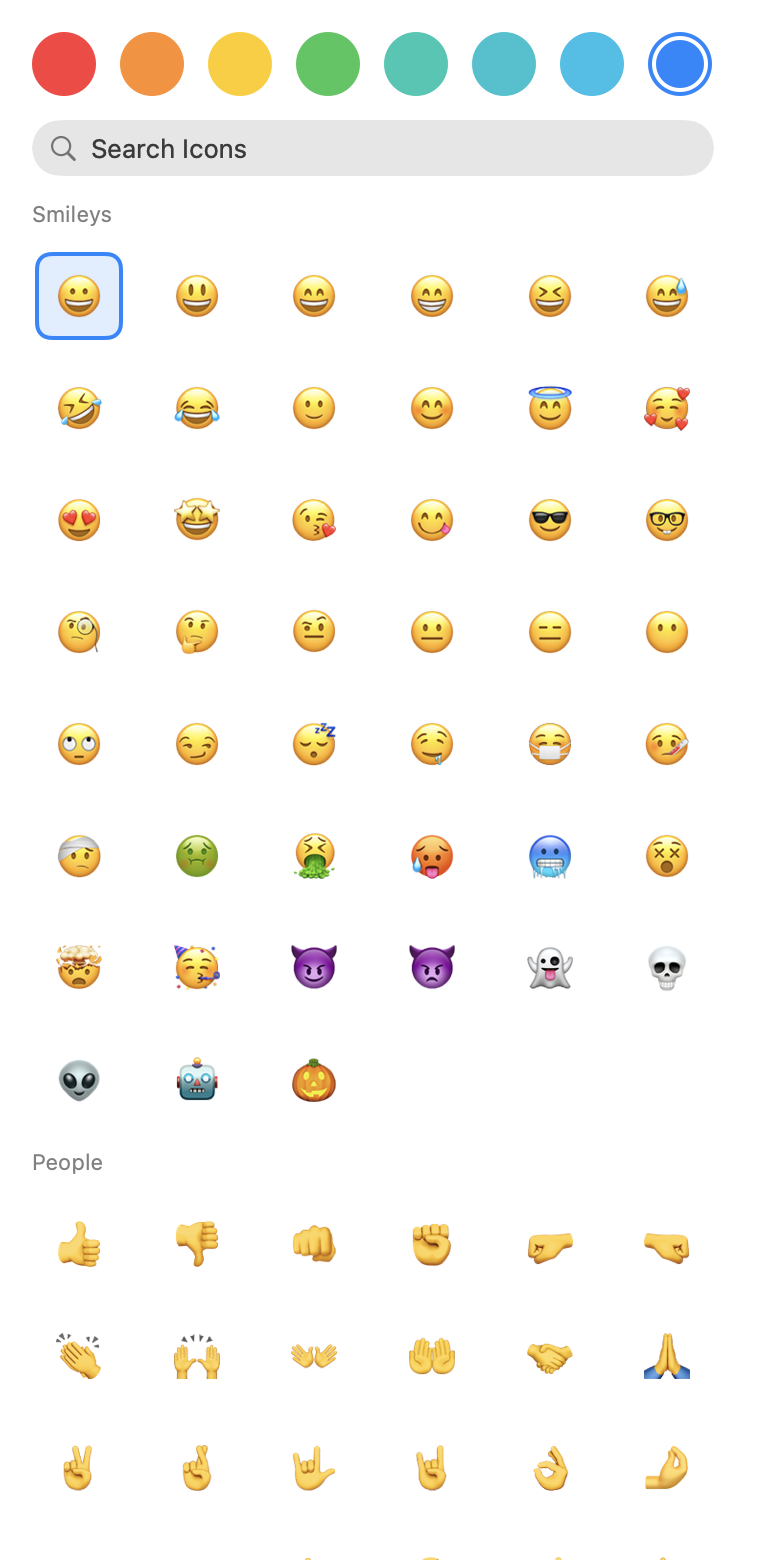
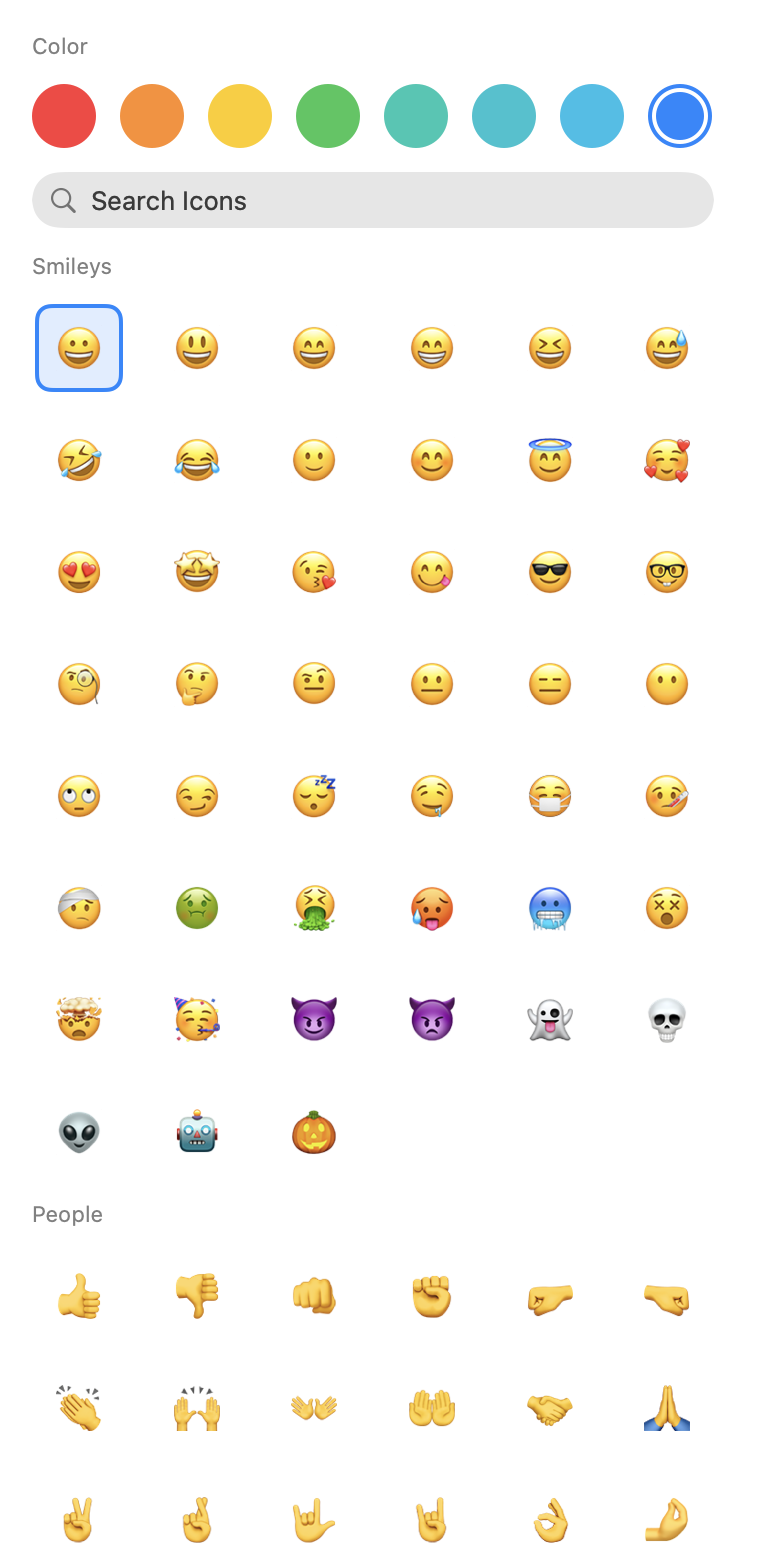
fix: label the color strip like other sections
Color uses the same section header style as Smileys and People.

diff --git a/Sources/IconPickerKit/IconPickerView.swift b/Sources/IconPickerKit/IconPickerView.swift
@@ -68,10 +68,16 @@ public struct IconPickerView: View {
     }
 
     private var colorSection: some View {
-        ScrollView(.horizontal, showsIndicators: false) {
-            HStack(spacing: IconPickerLayout.stackSpacing) {
-                ForEach(self.colors) { swatch in
-                    self.colorSwatch(swatch)
+        VStack(alignment: .leading, spacing: IconPickerLayout.stackSpacing) {
+            Text(self.labels.color)
+                .font(.subheadline)
+                .foregroundStyle(.secondary)
+                .accessibilityAddTraits(.isHeader)
+            ScrollView(.horizontal, showsIndicators: false) {
+                HStack(spacing: IconPickerLayout.stackSpacing) {
+                    ForEach(self.colors) { swatch in
+                        self.colorSwatch(swatch)
+                    }
                 }
             }
         }

diff --git a/README.md b/README.md
@@ -8,8 +8,8 @@ A SwiftUI picker for a tint color plus an emoji or SF Symbol. Bind two values th
 ## Preview
 
 <p>
-  <img src="Docs/Media/iconpickerkit-view-light.png" width="240" alt="IconPickerView in light mode: color swatches, Search Icons, and the Smileys section of the mixed catalog.">
-  <img src="Docs/Media/iconpickerkit-view-dark.png" width="240" alt="IconPickerView in dark mode with the same color strip, search field, and Smileys section.">
+  <img src="Docs/Media/iconpickerkit-view-light.png" width="240" alt="IconPickerView in light mode: a Color header and swatches, Search Icons, and the Smileys section.">
+  <img src="Docs/Media/iconpickerkit-view-dark.png" width="240" alt="IconPickerView in dark mode with the same Color header, search field, and Smileys section.">
 </p>
 
 `IconPickerView`. Present it in a sheet; you own Done.
